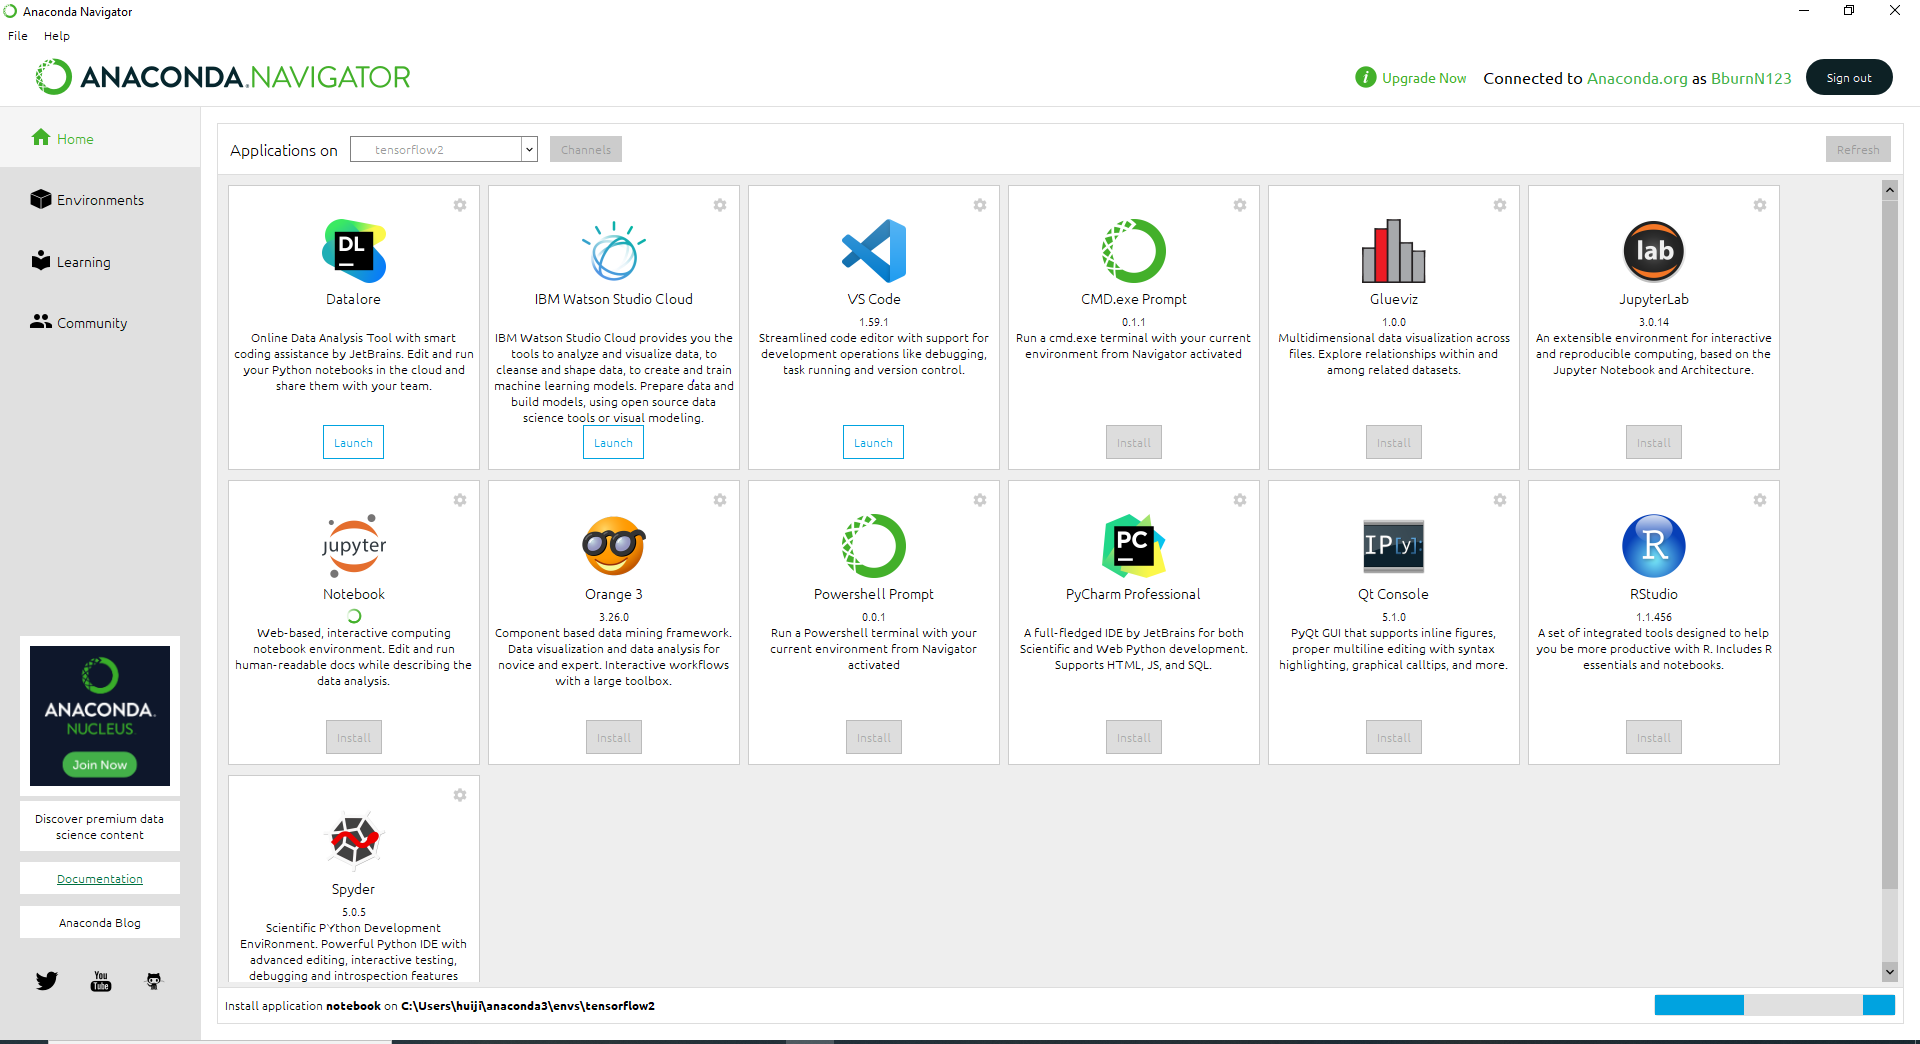
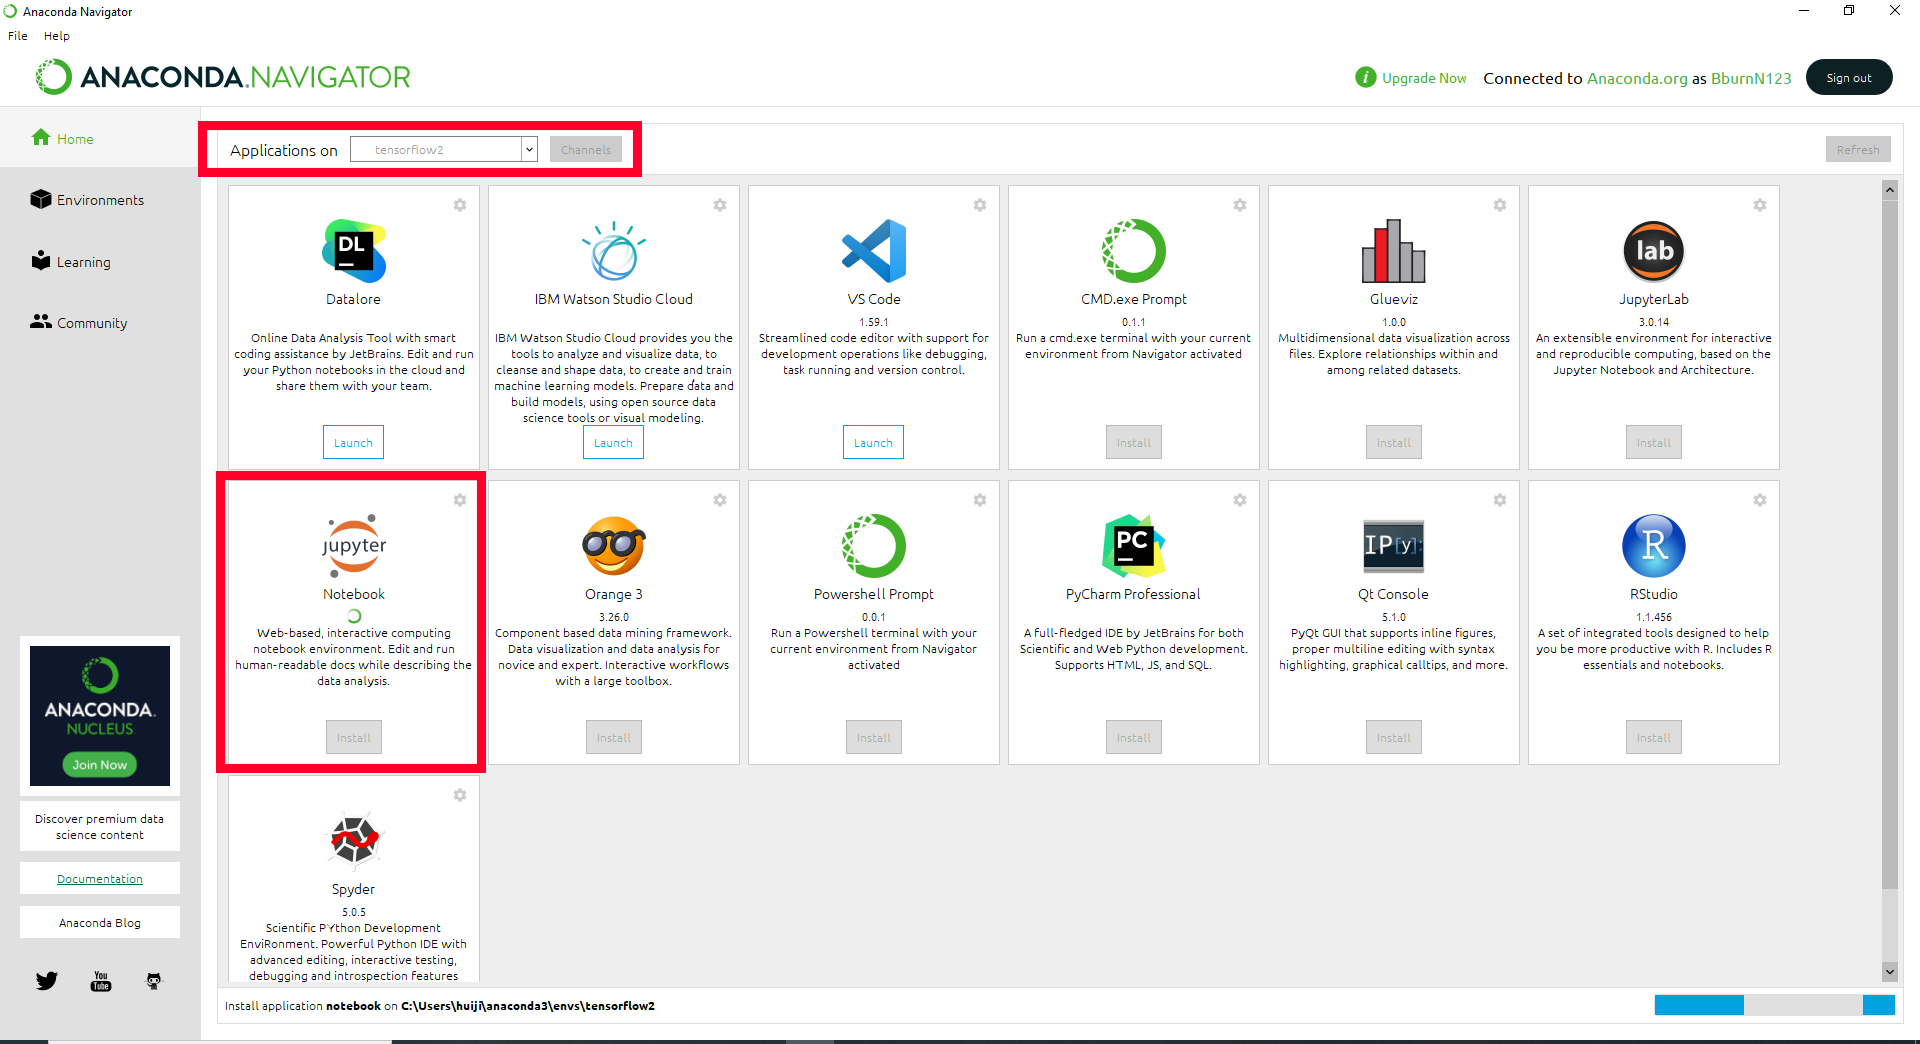
done

Changed region(s): [[0.0938, 0.4291, 0.25, 0.7663], [0.0938, 0.092, 0.3438, 0.1839]]

diff --git a/README.md b/README.md
@@ -45,16 +45,26 @@ python labelImg.py [IMAGE_PATH] [PRE-DEFINED CLASS FILE]
 [Watch the video here](https://www.youtube.com/watch?v=p0nR2YsCY_U&ab_channel=TzuTaLin)
  
 ## TensorflowLite 2.5.0 Object Detection 
-The project will focus on 3 main aspect for the data training
+The project will focus on the following aspect:
+
 1) Setting up of the environment
 2) Running the TFLITE_Model_Maker.ipynb
-Before we start, we have to set up our environment using anacoda.
+3) Trainning the Data
+4) Implementing on the Raspberry PI
+
+### Setting up of the environment
+Before we start, we will be setting up our environment using anacoda.
 
 Open the anacoda3 command prompt for windows and run it as an administrator
+```conda create -n tensorflow pip python=3.8```
 
-![anacoda](docs/demo3.jpg)
+Activate the environment after creating it
+```conda activate tensorflow```
+
+Open the anacoda navigator and install Jupyter Notebook
+![anacoda](docs/anacoda_installation.PNG)
 
 
-conda activate tensorflow
+
 
 Last updated : 24/8/2021
